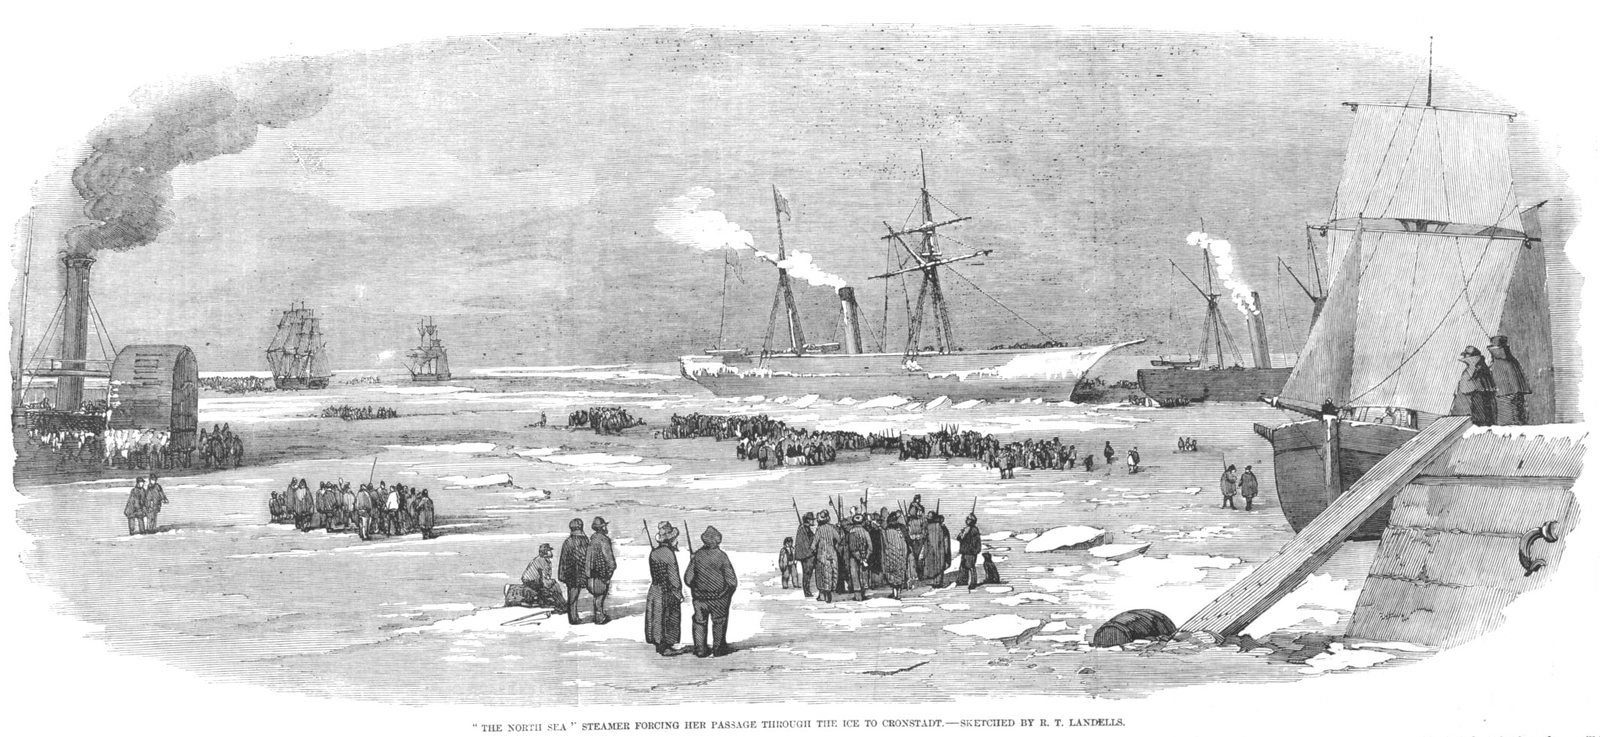
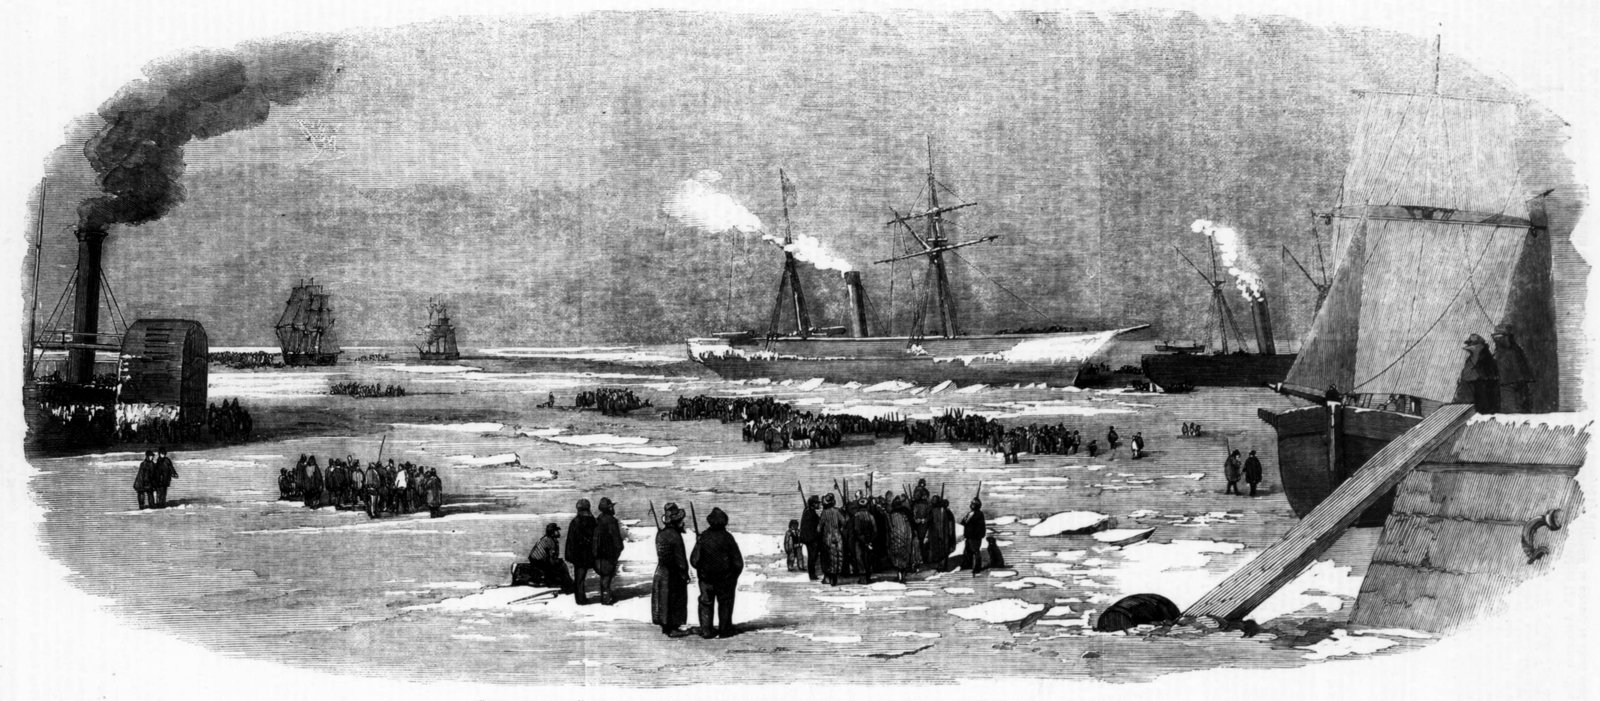
Изобретения 10 января: гравюра ILN 1856 «North Sea» у Кронштадта — из скана номера в Internet Archive вместо Викисклада (bez-viki снова зелёная, r282)
Кадр заново вырезан со с. 567 номера от 06.12.1856 (archive.org, sim_illustrated-london-news_1856-12-06_29_833);
в подписи исправлен художник: на гравюре «Sketched by R. T. Landells» — Р. Т. Ланделлс.
Упоминание на /avtory-izobrazheniy/ шло из той же подписи — ушло вместе с ней.

diff --git a/src/data/full-pages/izobreteniya/01-10.html b/src/data/full-pages/izobreteniya/01-10.html
@@ -222,11 +222,11 @@
 
 <figure class="hero-fig">
 <div class="hero-scene fit-full">
-  <img class="scene" src="day-10jan-kronshtadt-led-1856.jpg" data-source="https://commons.wikimedia.org/wiki/File:The_%27North_Sea%27_steamer_forcing_her_passage_through_the_ice_at_Cronstadt_ILN-1856-1206-0009.jpg" data-license="общественное достояние (гравюра 1856 года)" width="1600" height="737" alt="Гравюра: пароход с мачтами и трубой ломает лёд на подходе к Кронштадту, на льду толпы людей с баграми, справа вмёрзший парусник" fetchpriority="high" decoding="async">
+  <img class="scene" src="day-10jan-kronshtadt-led-1856.jpg" data-source="https://archive.org/details/sim_illustrated-london-news_1856-12-06_29_833/page/n8/mode/1up" data-license="общественное достояние (гравюра 1856 года)" width="1600" height="701" alt="Гравюра: пароход с мачтами и трубой ломает лёд на подходе к Кронштадту, на льду толпы людей с баграми, справа вмёрзший парусник" fetchpriority="high" decoding="async">
 </div>
 <figcaption class="scene-caption">
   <div class="wrap">
-    <div class="scene-cap">Пароход «Норт Си» пробивается сквозь лёд к Кронштадту — так выглядела зимняя навигация за восемь лет до «Пайлота». <span class="credit">Гравюра по рисунку Э. Т. Ланделлса, журнал The Illustrated London News, 6 декабря 1856 года. Общественное достояние; файл — Wikimedia Commons.</span></div>
+    <div class="scene-cap">Пароход «Норт Си» пробивается сквозь лёд к Кронштадту — так выглядела зимняя навигация за восемь лет до «Пайлота». <span class="credit">Гравюра по рисунку Р. Т. Ланделлса, журнал The Illustrated London News, 6 декабря 1856 года, с. 567. Общественное достояние; скан номера — Internet Archive (archive.org).</span></div>
     <span class="scene-hint">Гравюра · 1856</span>
   </div>
 </figcaption>
